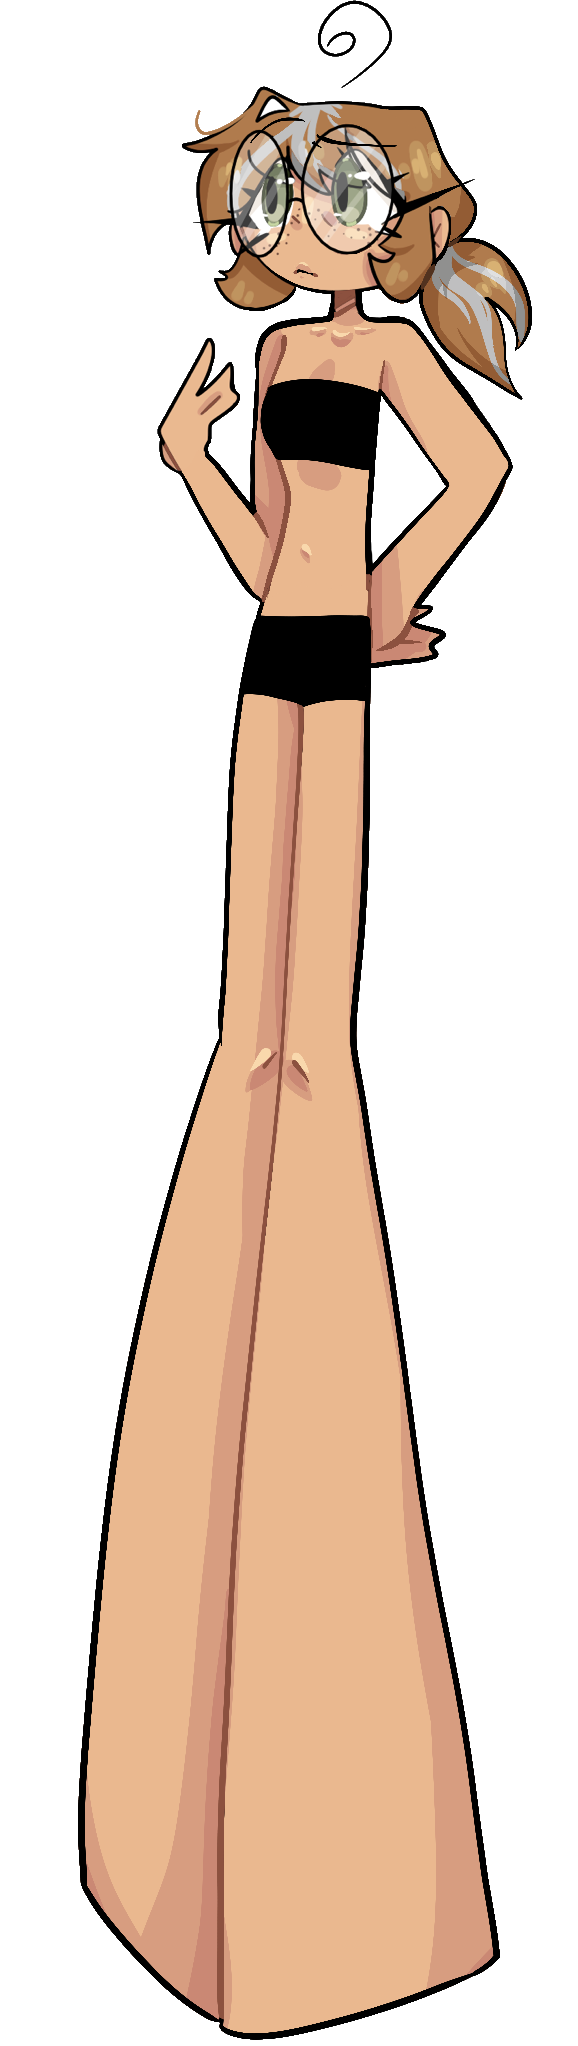
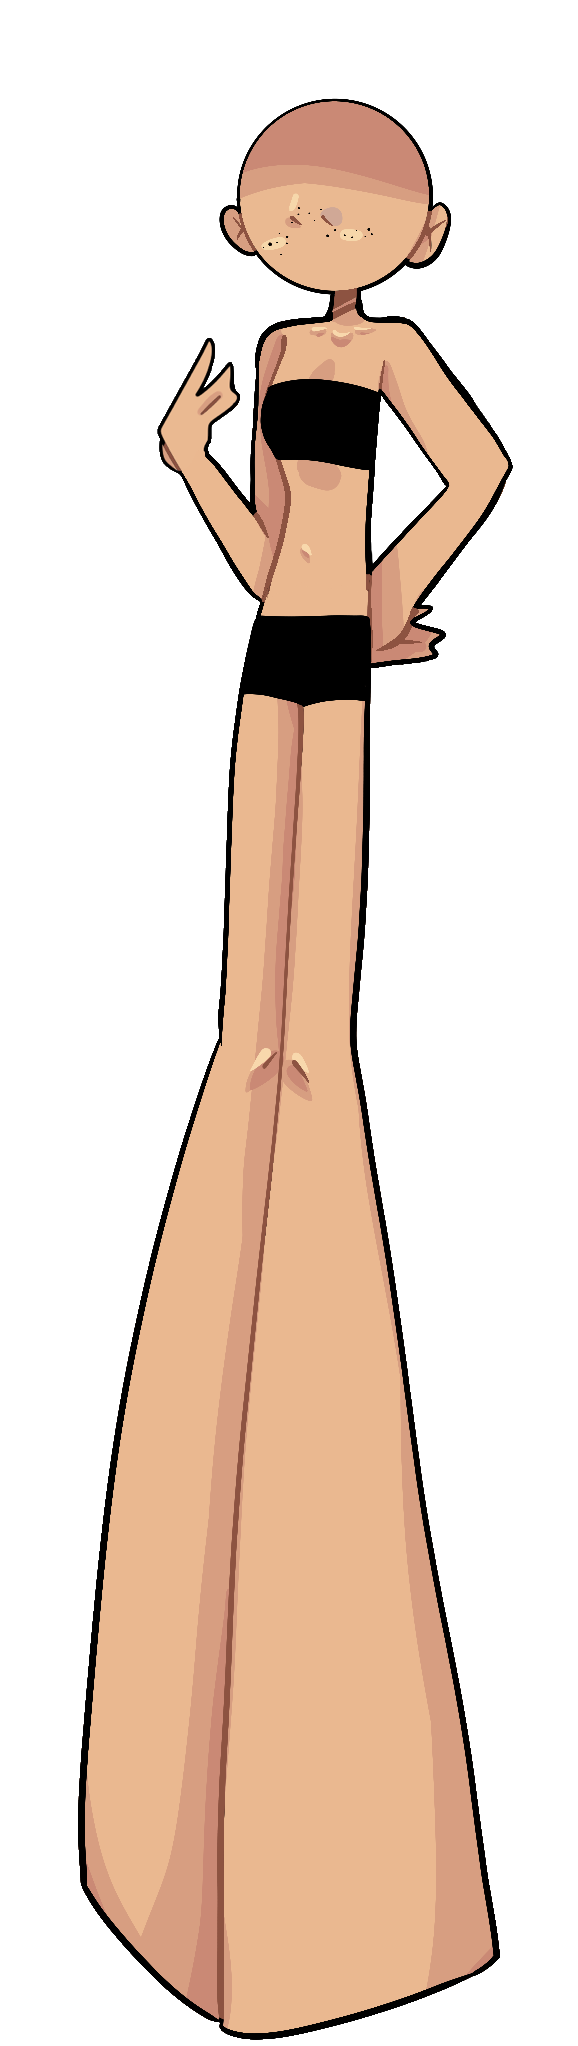
Add Clara face layers

Changed region(s): [[0.3114, 0.0, 0.9343, 0.2155]]

diff --git a/css/dressup.css b/css/dressup.css
@@ -94,6 +94,10 @@ div#dressup {
     background-size: contain;
 }
 
+.dressupBase {
+    z-index: 15;
+}
+
 .dressupThumbnail {
     width: 128px;
     height: 128px;

diff --git a/scripts/insert_dressup_images.php b/scripts/insert_dressup_images.php
@@ -183,6 +183,13 @@ foreach ($iterator as $fileInfo) {
                 case 'shirts': $layer = 75; break; // undershirts: 70
                 case 'jackets': $layer = 80; break;
                 case 'accessories': $layer = 90; break;
+                case 'glasses': $layer = 95; break;
+                case 'eyes_right': $layer = 83; break;
+                case 'eyes_left': $layer = 83; break;
+                case 'mouths': $layer = 85; break;
+                case 'eyebrows': $layer = 87; break;
+                case 'hair_back': $layer = 2; break;
+                case 'hair_front': $layer = 81; break;
             }
 
             $newRecord = array(
